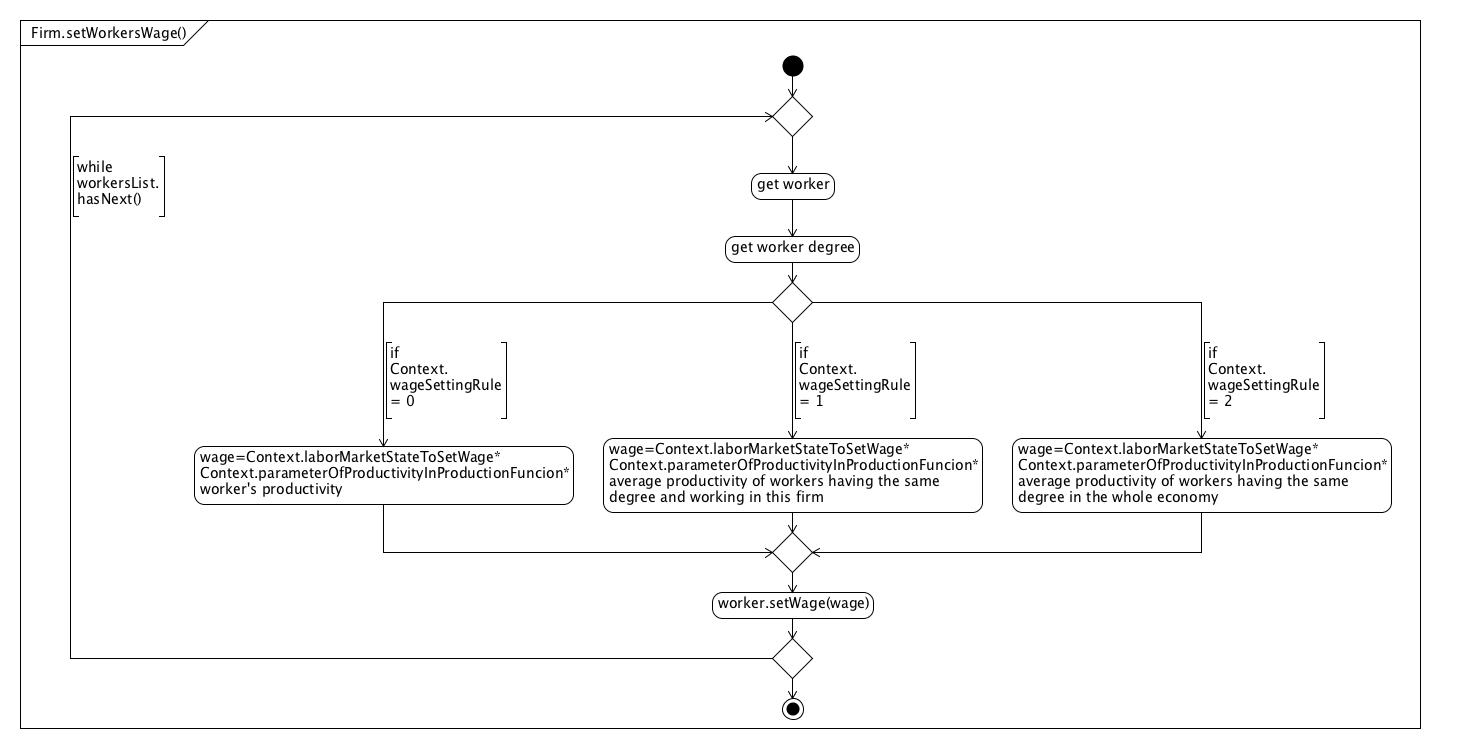
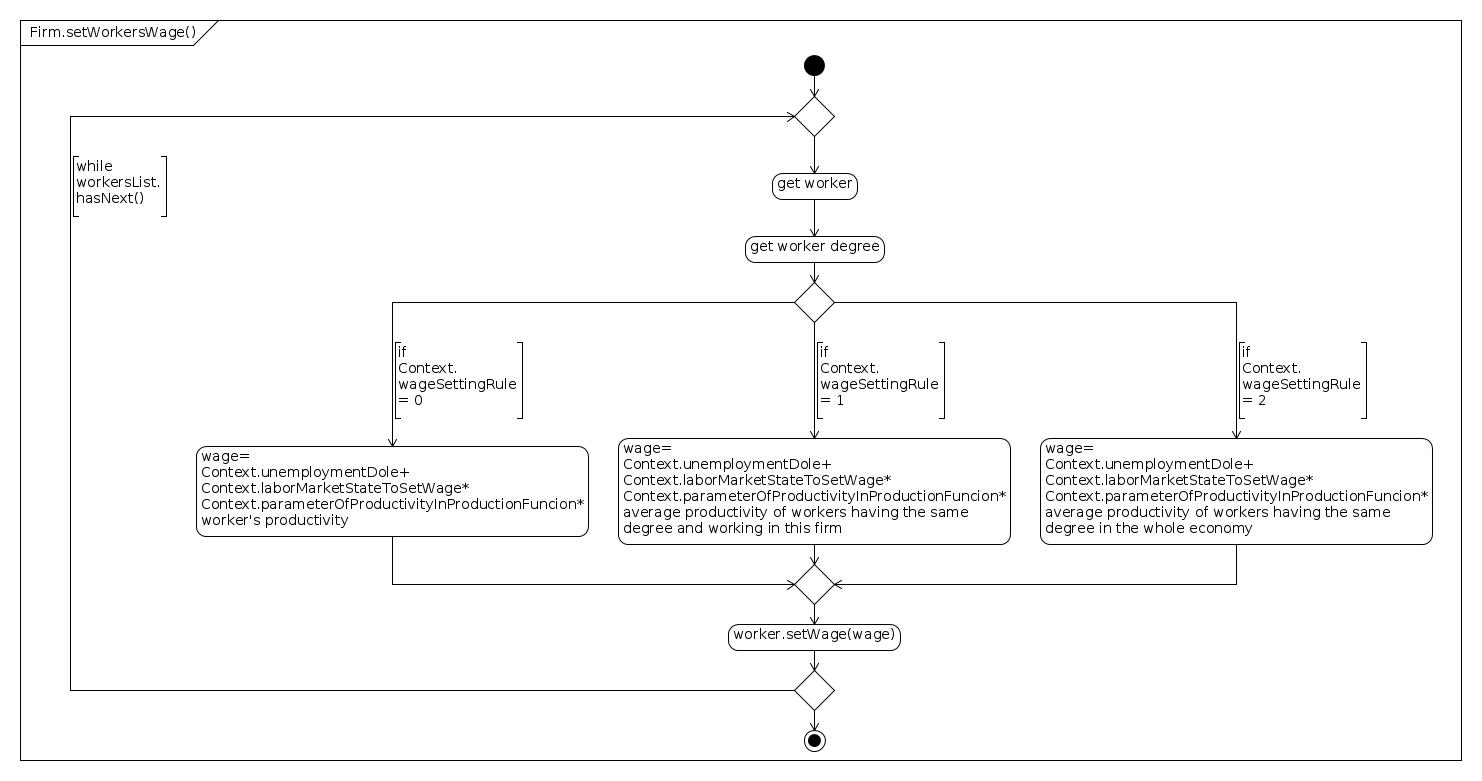
verificato l'esito dei run fino al consumo

diff --git a/src/sfcabm/Consumer.java b/src/sfcabm/Consumer.java
@@ -433,7 +433,8 @@ public void stepState(){
 		industriesListIterator=OfficeForStatistics.industriesList.iterator();
 		while(industriesListIterator.hasNext()){
 			anIndustry=industriesListIterator.next();
-			int tmpDemand=(int)Math.round(desiredDemand*anIndustry.getProductAttractiveness());
+//			int tmpDemand=(int)Math.round(desiredDemand*anIndustry.getProductAttractiveness());
+			double tmpDemand=desiredDemand*anIndustry.getProductAttractiveness();
 			aProductDemand=new AProductDemand(anIndustry.getAbsoluteRank(),anIndustry.getRelativeRank(),tmpDemand);
 			aProductDemand.inform(identity);
 			demandsList.add(aProductDemand);
@@ -765,7 +766,7 @@ public void stepWorkerState() {
 				aProductDemand=demandsList.get(j);
 				consumption+=aProductDemand.getDemand();
 			}
-			System.out.println("      consumer "+getIdentity()+" consumption "+consumption+" disposableIncome "+disposableIncome);
+			System.out.println("    consumer "+getIdentity()+" consumption "+consumption+" disposableIncome "+disposableIncome);
 			effectiveConsumption=consumption;
 			disposableIncomewhenConsuming=disposableIncome;
 			if(disposableIncomewhenConsuming>effectiveConsumption){
@@ -784,20 +785,21 @@ public void stepWorkerState() {
 					if(multiplier<0){
 						multiplier=0;
 						residualResourcesAfterConsuming+=-unpaidAmountInBankAccounts;
+						unpaidAmountInBankAccounts=0;
 					}
 					else{
-						residualResourcesAfterConsuming+=-unpaidAmountInBankAccounts;
+						unpaidAmountInBankAccounts+=-residualResourcesAfterConsuming;
+						residualResourcesAfterConsuming=0;
 					}
 					for(int i=0;i<bankAccountsList.size();i++){
 						aBankAccount=(BankAccount)bankAccountsList.get(i);
 						aBankAccount.setAccount(aBankAccount.getAccount()+aBankAccount.getUnpaidAmount()*(1-multiplier));
 						aBankAccount.setUnpaidAmount(aBankAccount.getUnpaidAmount()*multiplier);
-						worstBankAccount.setAccount(worstBankAccount.getAccount()+residualResourcesAfterConsuming-unpaidAmountInBankAccounts);
-						residualResourcesAfterConsuming=0;
-						unpaidAmountInBankAccounts=0;
 					}
 				}
+				System.out.println("      updating worstBankAccount by "+residualResourcesAfterConsuming);
 				worstBankAccount.setAccount(worstBankAccount.getAccount()+residualResourcesAfterConsuming);
+				residualResourcesAfterConsuming=0;
 	
 			}
 			else{
@@ -811,12 +813,12 @@ public void stepWorkerState() {
 							consumption+=-tmpAccount;
 							aBankAccount.setAccount(0);
 							if(Context.verboseFlag){
-								System.out.println("       deposits in this account are lower than residual desired consumption. All deposits are withdrawn to buy consumption goods and the residual desired consumption is "+consumption);      
+								System.out.println("      deposits in this account are lower than residual desired consumption. All deposits are withdrawn to buy consumption goods and the residual desired consumption is "+consumption);      
 							}
 						}
 						else{
 							if(Context.verboseFlag){
-								System.out.println("       deposits in this account are higher than residual desired consumption. Deposits are thus reduced by "+consumption);      
+								System.out.println("      deposits in this account are higher than residual desired consumption. Deposits are thus reduced by "+consumption);      
 							}
 							aBankAccount.setAccount(tmpAccount-consumption);
 							consumption=0;
@@ -831,19 +833,24 @@ public void stepWorkerState() {
 					if(bankAccountsListWithNoUnpaidAmount.size()>0){
 						//					System.out.println("      residual desired consumption "+consumption+" covered with new debt "+(bestBankAccount.getAllowedCredit())+"    "+(-bestBankAccount.getAccount()));
 						double newCreditAvailableInBestBankAccount=bestBankAccount.getAllowedCredit()-bestBankAccount.getAccount();
-						System.out.println("      residual desired consumption "+consumption+" covered with new debt "+newCreditAvailableInBestBankAccount);
-						if(consumption<(-newCreditAvailableInBestBankAccount)){
-							bestBankAccount.setAccount(bestBankAccount.getAccount()-consumption);
-						}
-						else{
-							bestBankAccount.setAccount(bestBankAccount.getAllowedCredit());
+						System.out.println("       new credit available in bestBankAccount "+newCreditAvailableInBestBankAccount);
+						if(newCreditAvailableInBestBankAccount<0){
+							System.out.println("       residual desired consumption "+consumption+" covered with new debt "+newCreditAvailableInBestBankAccount);
+							if(consumption<(-newCreditAvailableInBestBankAccount)){
+								bestBankAccount.setAccount(bestBankAccount.getAccount()-consumption);
+							}
+							else{
+								bestBankAccount.setAccount(bestBankAccount.getAllowedCredit());
+							}
 						}
 						//Now, the consumer can have residual additional credit in the bestBankAccount (if rationed on the goods market). On the other hand s/he can have unpaid amounts in some bankAccounts. If unpaid credit exists, these available funds are used to decrease unpaid amount.
 						double additionalCreditAvailableInBestBankAccount=0;
 						if(bankAccountsListWithNoUnpaidAmount.size()>0){
 							additionalCreditAvailableInBestBankAccount=bestBankAccount.getAccount()-bestBankAccount.getAllowedCredit();
 						}
+						System.out.println("      additional credit available in bestBankAccount "+additionalCreditAvailableInBestBankAccount+" available to reduce unpaid amount if exists");
 						if(additionalCreditAvailableInBestBankAccount>0 && unpaidAmountInBankAccounts>0){
+							System.out.println("      reducing unpaid amount");
 							double multiplier=1-additionalCreditAvailableInBestBankAccount/unpaidAmountInBankAccounts;
 							if(multiplier<0){
 								multiplier=0;
@@ -853,7 +860,11 @@ public void stepWorkerState() {
 								aBankAccount.setAccount(aBankAccount.getAccount()+aBankAccount.getUnpaidAmount()*(1-multiplier));
 								aBankAccount.setUnpaidAmount(aBankAccount.getUnpaidAmount()*multiplier);
 							}
-						}	
+						}
+						else{
+							System.out.println("      no unpaid amount to be reduced");
+						}
+
 
 
 

diff --git a/src/sfcabm/Firm.java b/src/sfcabm/Firm.java
@@ -900,11 +900,11 @@ System.out.println("      ----------------");
 			int degree=aConsumer.getDegree();
 			//double aWage;
 			switch(Context.wageSettingRule){
-				case 0: aConsumer.setWage(Context.laborMarketStateToSetWage*Context.parameterOfProductivityInProductionFuncion*aConsumer.getProductivity()); 
+				case 0: aConsumer.setWage(Context.unemploymentDole+Context.laborMarketStateToSetWage*Context.parameterOfProductivityInProductionFuncion*aConsumer.getProductivity()); 
 					break;
-				case 1: aConsumer.setWage(Context.laborMarketStateToSetWage*Context.parameterOfProductivityInProductionFuncion*averageProductivityOfWorkersInADegree[degree]);
+				case 1: aConsumer.setWage(Context.unemploymentDole+Context.laborMarketStateToSetWage*Context.parameterOfProductivityInProductionFuncion*averageProductivityOfWorkersInADegree[degree]);
 					break;
-				case 2: aConsumer.setWage(Context.laborMarketStateToSetWage*Context.parameterOfProductivityInProductionFuncion*OfficeForStatistics.averageProductivityOfWorkersInADegree[degree]);
+				case 2: aConsumer.setWage(Context.unemploymentDole+Context.laborMarketStateToSetWage*Context.parameterOfProductivityInProductionFuncion*OfficeForStatistics.averageProductivityOfWorkersInADegree[degree]);
 					break;
 				default: System.out.println("Unknown wage setting rule");
 					 break;

diff --git a/src/sfcabm/AProductDemand.java b/src/sfcabm/AProductDemand.java
@@ -18,7 +18,7 @@ public class AProductDemand{
 	public void adjustDemand(int id,double factor){
 		demand=demand*factor;
 		if(Context.verboseFlag){
-			System.out.println("        consumer "+id+" revised demand of product with absolute rank "+absoluteRank+" and relative rank "+relativeRank+" demanded quantity "+demand+" previously demanded "+(int)(demand/factor));
+			System.out.println("        consumer "+id+" revised demand of product with absolute rank "+absoluteRank+" and relative rank "+relativeRank+" demanded quantity "+demand+" previously demanded "+(demand/factor));
 		}
 	}
 

diff --git a/src/sfcabm/BankAccount.java b/src/sfcabm/BankAccount.java
@@ -105,7 +105,7 @@ public class BankAccount{
 	public void resetAllowedCredit(){
 		allowedCredit=0;
 		if(Context.verboseFlag){
-			System.out.println("     bank account "+account+" demanded credit "+demandedCredit+" allowed "+allowedCredit+" unpaid "+unpaidAmount+" "+ownerType);
+			System.out.println("     bank account "+account+" demanded credit "+demandedCredit+" allowed "+allowedCredit+" unpaid "+unpaidAmount+" owner type "+ownerType);
 		}
 	}
 	public void setUnpaidAmount(double ua){

diff --git a/src/sfcabm/Context.java b/src/sfcabm/Context.java
@@ -32,7 +32,7 @@ public class Context implements ContextBuilder<Object> {
 
 	public static double minPreferenceParameter=0.5;
 	public static double maxPreferenceParameter=1.5;
-	public static double consumersProbabilityToGetFunded=0.0;
+	public static double consumersProbabilityToGetFunded=0.5;
 	public static double percentageOfCreditAllowedToConsumersWhenCreditIsNotTotallyFunded=0;
 
 	public static int numConsumers = 10;
